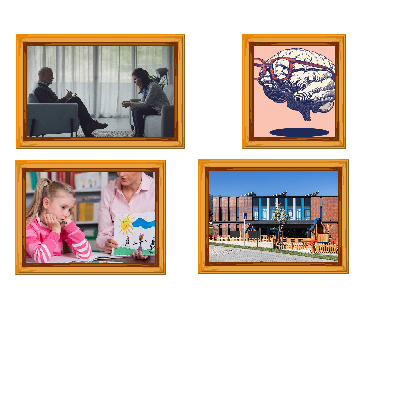
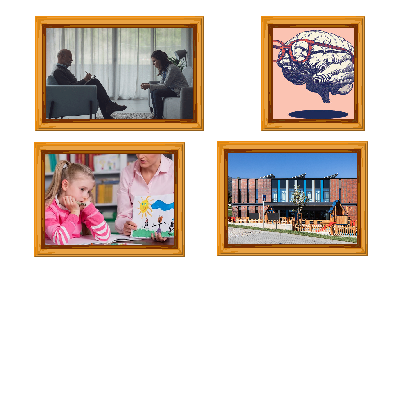
started implementing the movement of the phases animations, more difficult than I thought

diff --git a/src/Handlers/AnimationManager.java b/src/Handlers/AnimationManager.java
@@ -8,6 +8,8 @@ import main.GamePanel;
 
 import java.awt.*;
 import java.awt.image.BufferedImage;
+import java.util.ArrayDeque;
+import java.util.Deque;
 
 public class AnimationManager {
 
@@ -26,6 +28,9 @@ public class AnimationManager {
     BufferedImage[] tutorialSprites;
     Animation tutorial;
     Phase[] phases = Assets.phases;
+    Deque<Phase> future;
+    Deque<Phase> past;
+    Deque<Phase> drawn = new ArrayDeque<>();
 
     private boolean tutorialFading = false;
     public Player player;
@@ -38,6 +43,8 @@ public class AnimationManager {
         backgroundAnimation = Assets.backgroundAnimation;
         tutorial = Assets.tutorial;
         tutorialSprites = Assets.tutorialSprites;
+        future = Assets.future;
+        past = Assets.past;
     }
 
     public void updateAnimationsPositions(){
@@ -46,51 +53,38 @@ public class AnimationManager {
             if (player.x < Config.LEFT_BOUNDARY) {
                 if (player.movedLeft){
                     backgroundAnimation.x += (int) player.speed;
+
+                    if (!drawn.isEmpty()) {
+                        if (drawn.size() == 1) {
+                            drawn.peekFirst().picture.x += (int) player.speed;
+                            drawn.peekFirst().textBox.x += (int) player.speed;
+                        } else if (drawn.size() == 2) {
+                            drawn.peekFirst().picture.x += (int) player.speed;
+                            drawn.peekFirst().textBox.x += (int) player.speed;
+                            drawn.peekLast().picture.x += (int) player.speed;
+                            drawn.peekLast().textBox.x += (int) player.speed;
+                        }
+                    }
                 }
             } else if (player.x > Config.RIGHT_BOUNDARY) {
                 if (player.movedRight){
                     backgroundAnimation.x -= (int) player.speed;
+
+                    if (!drawn.isEmpty()) {
+                        if (drawn.size() == 1) {
+                            drawn.peekFirst().picture.x -= (int) player.speed;
+                            drawn.peekFirst().textBox.x -= (int) player.speed;
+                        } else if (drawn.size() == 2) {
+                            drawn.peekFirst().picture.x -= (int) player.speed;
+                            drawn.peekFirst().textBox.x -= (int) player.speed;
+                            drawn.peekLast().picture.x -= (int) player.speed;
+                            drawn.peekLast().textBox.x -= (int) player.speed;
+                        }
+                    }
                 }
             }
         }
-
-
     }
-
-//    public void loadAssets() {
-//
-//        tutorialSprites = new BufferedImage[2];
-//
-//        try {
-//            backgroundImage = ImageIO.read(Objects.requireNonNull(getClass().getResourceAsStream("/background/test-bg.png")));
-//
-//            background = new Animation(backgroundImage, Config.INIT_BG_X, Config.INIT_BG_Y, player.speed);
-//
-//            tutorialSprites[0] = ImageIO.read(Objects.requireNonNull(getClass().getResourceAsStream("/buttons/dir_buttons1.png")));
-//            tutorialSprites[1] = ImageIO.read(Objects.requireNonNull(getClass().getResourceAsStream("/buttons/dir_buttons2.png")));
-//            tutorial = new Animation(tutorialSprites, 100, 100, 0.13F); // these coordinates are always relative to the window
-//
-//            pictures = new FramedPicture[5];
-//            String VTUmessage = Config.TXTBOX_MESSAGES.get("VTU");
-//            //TODO
-//            BufferedImage pictureVTU = ImageIO.read(Objects.requireNonNull(getClass().getResourceAsStream("/buttons/dir_buttons1.png")));
-//            TextBox textBoxVTU = new TextBox(VTUmessage);
-//            FramedPicture VTU = new FramedPicture("VTU", textBoxVTU, pictureVTU, 0,0);
-//
-//
-//
-//
-//        }
-//        catch(IOException e){
-//            e.printStackTrace();
-//        }
-//    }
-
-    // for each visible animatable in the array, we need to
-    // activate/deactivate the animatable
-    // make it update its frames - internal to the animation?
-
-
 
 
     // run all animatable objects if they are active:
@@ -121,17 +115,12 @@ public class AnimationManager {
             System.out.println("BG middle X is " + backgroundAnimation.x );
             //System.out.println("Player X is " + player.x);
 
-            for(int i = 1; i < phases.length; i++){
-
-                //phases[i].picture.draw();
-                //phases[i].textBox.draw();
-            }
-
         } else {
             System.out.println("Warning: background is null, cannot draw.");
         }
 
         // draw the rest
+
         if (tutorial.active) {
             if ((player.x > Config.LEFT_BOUNDARY && player.x < Config.RIGHT_BOUNDARY) && !tutorialFading)
                 tutorial.draw(g2, tutorial.x, tutorial.y, tutorial.sprites[0].getWidth(), tutorial.sprites[0].getHeight());
@@ -143,7 +132,55 @@ public class AnimationManager {
             tutorial.updateFrame();
         }
 
+
+        Phase currentlyDrawn;
+        if(drawn.isEmpty()){                // add the first phase
+            currentlyDrawn = future.pollFirst();
+            if(currentlyDrawn != null) {
+                currentlyDrawn.picture.x = Config.INIT_MIDPIC_X;
+                currentlyDrawn.picture.y = Config.INIT_MIDPIC_Y;
+                currentlyDrawn.textBox.x = currentlyDrawn.picture.x + currentlyDrawn.picture.sprites[0].getWidth() * Config.SCALE + Config.PIC_TEXTBOX_OFFSET * Config.SCALE;
+                currentlyDrawn.textBox.y = currentlyDrawn.picture.y;
+            }
+            drawn.addFirst(currentlyDrawn);
+        }
+                                            //draw one phase
+        if(!drawn.isEmpty()) {
+
+            Phase phaseToDraw1 = drawn.peekFirst();
+            int offset = phaseToDraw1.picture.x + phaseToDraw1.picture.sprites[0].getWidth() * Config.SCALE + Config.PIC_TEXTBOX_OFFSET + phaseToDraw1.textBox.sprites[0].getWidth() * Config.SCALE + Config.PIC_AREA_OFFSET;
+
+            phaseToDraw1.picture.draw(g2, phaseToDraw1.picture.x, phaseToDraw1.picture.y, phaseToDraw1.picture.sprites[0].getWidth(), phaseToDraw1.picture.sprites[0].getHeight());
+            phaseToDraw1.picture.updateFrame(); // in case the animation is dynamic this will animate it
+            phaseToDraw1.textBox.draw(g2, phaseToDraw1.textBox.x + Config.PIC_TEXTBOX_OFFSET, phaseToDraw1.textBox.y, phaseToDraw1.textBox.sprites[0].getWidth(), phaseToDraw1.textBox.sprites[0].getHeight());
+
+            if ((phaseToDraw1.picture.x < 20) && (drawn.size() < 2) && (!future.isEmpty())) { // add second phase if there isn't any added and if future is not empty
+
+                Phase phaseToAdd = future.pollFirst();
+
+                phaseToAdd.picture.x = phaseToDraw1.picture.x + offset;
+                phaseToAdd.picture.y = Config.INIT_MIDPIC_Y;
+                phaseToAdd.textBox.x = phaseToAdd.picture.x + phaseToAdd.picture.sprites[0].getWidth() * Config.SCALE + Config.PIC_TEXTBOX_OFFSET * Config.SCALE;
+                phaseToAdd.textBox.y = phaseToAdd.picture.y;
+                drawn.addLast(phaseToAdd);
+            }
+
+            if (drawn.size() == 2){
+
+                Phase phaseToDraw2 = drawn.peekLast();
+                if (phaseToDraw2 != null) {
+                    phaseToDraw1 = drawn.peekFirst();
+
+                    phaseToDraw2.picture.draw(g2, phaseToDraw2.picture.x, phaseToDraw2.picture.y, phaseToDraw2.picture.sprites[0].getWidth(), phaseToDraw2.picture.sprites[0].getHeight());
+                    phaseToDraw2.picture.updateFrame(); // in case the animation is dynamic this will animate it
+                    phaseToDraw2.textBox.draw(g2, phaseToDraw2.textBox.x + Config.PIC_TEXTBOX_OFFSET, phaseToDraw2.textBox.y, phaseToDraw2.textBox.sprites[0].getWidth(), phaseToDraw2.textBox.sprites[0].getHeight());
+                }
+            }
+
+        }
     }
+
+//if future.isEmpty();
 
 
 }

diff --git a/src/Handlers/Assets.java b/src/Handlers/Assets.java
@@ -7,7 +7,10 @@ import main.Config;
 import javax.imageio.ImageIO;
 import java.awt.image.BufferedImage;
 import java.io.IOException;
+import java.util.ArrayDeque;
+import java.util.Deque;
 import java.util.Objects;
+import java.util.Stack;
 
 public class Assets{
 
@@ -16,6 +19,8 @@ public class Assets{
     public static BufferedImage[] tutorialSprites;
     public static Animation tutorial;
     public static Phase[] phases = new Phase[8];
+    public static Deque<Phase> future = new ArrayDeque<>();
+    public static Deque<Phase> past = new ArrayDeque<>();
 
     public static void load(float speed) {
 
@@ -28,7 +33,7 @@ public class Assets{
 
                 tutorialSprites[0] = ImageIO.read(Objects.requireNonNull(Assets.class.getResourceAsStream("/buttons/dir_buttons1.png")));
                 tutorialSprites[1] = ImageIO.read(Objects.requireNonNull(Assets.class.getResourceAsStream("/buttons/dir_buttons2.png")));
-                tutorial = new Animation(tutorialSprites, 100, 100, 0.13F); // these coordinates are always relative to the window
+                tutorial = new Animation(tutorialSprites, Config.tutorialX, Config.tutorialY, 0.13F); // these coordinates are always relative to the window
 
                 //phase 0 (a welcome message first?)
 
@@ -40,7 +45,7 @@ public class Assets{
 //                Phase ph = new Phase(textBox, 0, 0, picAnimation, 0,0 );
 //                phases[1] = ph;
 
-                for(int i = 1; i < phases.length; i++){
+                for(int i = 0; i < phases.length; i++){
                     Animation pictureAnimation;
                     if(i != 4 && i != 6 && i !=7) {
                         String picPath = "/phases/pics/pic" + i + "/pic" + i + ".png";
@@ -59,59 +64,11 @@ public class Assets{
                     String textBoxPath = "/phases/textboxes/box"+ i + "/textbox" + i + ".png";
                     BufferedImage textBoxSprite = ImageIO.read(Objects.requireNonNull(Assets.class.getResourceAsStream(textBoxPath)));
                     Animation textBox = new Animation(textBoxSprite);
-                    Phase ph = new Phase(textBox, 0, 0, pictureAnimation, 0,0 );
+                    Phase ph = new Phase(textBox, pictureAnimation);
                     phases[i] = ph;
-
+                    future.addLast(ph);
                 }
 
-
-//                //phase2
-//                BufferedImage picSprite = ImageIO.read(Objects.requireNonNull(Assets.class.getResourceAsStream("/buttons/dir_buttons1.png")));
-//                Animation picAnimation = new Animation(picSprite);
-//                BufferedImage textBoxSprite = ImageIO.read(Objects.requireNonNull(Assets.class.getResourceAsStream("/buttons/dir_buttons1.png")));
-//                Animation textBox = new Animation(textBoxSprite);
-//                Phase ph = new Phase(textBox, 0, 0, picAnimation, 0,0 );
-//                phases[2] = ph;
-//
-//                //phase3
-//                BufferedImage picSprite = ImageIO.read(Objects.requireNonNull(Assets.class.getResourceAsStream("/buttons/dir_buttons1.png")));
-//                Animation picAnimation = new Animation(picSprite);
-//                BufferedImage textBoxSprite = ImageIO.read(Objects.requireNonNull(Assets.class.getResourceAsStream("/buttons/dir_buttons1.png")));
-//                Animation textBox = new Animation(textBoxSprite);
-//                Phase ph = new Phase(textBox, 0, 0, picAnimation, 0,0 );
-//                phases[3] = ph;
-//
-//                //phase4
-//                BufferedImage picSprite = ImageIO.read(Objects.requireNonNull(Assets.class.getResourceAsStream("/buttons/dir_buttons1.png")));
-//                Animation picAnimation = new Animation(picSprite);
-//                BufferedImage textBoxSprite = ImageIO.read(Objects.requireNonNull(Assets.class.getResourceAsStream("/buttons/dir_buttons1.png")));
-//                Animation textBox = new Animation(textBoxSprite);
-//                Phase ph = new Phase(textBox, 0, 0, picAnimation, 0,0 );
-//                phases[4] = ph;
-//
-//                //phase5
-//                BufferedImage picSprite = ImageIO.read(Objects.requireNonNull(Assets.class.getResourceAsStream("/buttons/dir_buttons1.png")));
-//                Animation picAnimation = new Animation(picSprite);
-//                BufferedImage textBoxSprite = ImageIO.read(Objects.requireNonNull(Assets.class.getResourceAsStream("/buttons/dir_buttons1.png")));
-//                Animation textBox = new Animation(textBoxSprite);
-//                Phase ph = new Phase(textBox, 0, 0, picAnimation, 0,0 );
-//                phases[5] = ph;
-//
-//                //phase6
-//                BufferedImage picSprite = ImageIO.read(Objects.requireNonNull(Assets.class.getResourceAsStream("/buttons/dir_buttons1.png")));
-//                Animation picAnimation = new Animation(picSprite);
-//                BufferedImage textBoxSprite = ImageIO.read(Objects.requireNonNull(Assets.class.getResourceAsStream("/buttons/dir_buttons1.png")));
-//                Animation textBox = new Animation(textBoxSprite);
-//                Phase ph = new Phase(textBox, 0, 0, picAnimation, 0,0 );
-//                phases[6] = ph;
-//
-//                //phase7
-//                BufferedImage picSprite = ImageIO.read(Objects.requireNonNull(Assets.class.getResourceAsStream("/buttons/dir_buttons1.png")));
-//                Animation picAnimation = new Animation(picSprite);
-//                BufferedImage textBoxSprite = ImageIO.read(Objects.requireNonNull(Assets.class.getResourceAsStream("/buttons/dir_buttons1.png")));
-//                Animation textBox = new Animation(textBoxSprite);
-//                Phase ph = new Phase(textBox, 0, 0, picAnimation, 0,0 );
-//                phases[7] = ph;
 
         }
         catch(IOException e){

diff --git a/src/main/Config.java b/src/main/Config.java
@@ -11,7 +11,7 @@ import java.util.Objects;
 
 public final class Config {
 
-    public static final int SCALE = 2;
+    public static final int SCALE = 1;
 
     public static final int screenWidth = 1000;
     public static final int screenHeight = 500;
@@ -23,8 +23,20 @@ public final class Config {
     static public int BG_WIDTH = 1380;
     static public int BG_HEIGHT = 500;
 
-    static public int INIT_BG_X = -375;
-    public static int INIT_BG_Y = 0;
+    static public int PIC_TEXTBOX_OFFSET    = 20 * SCALE;
+    static public int PIC_AREA_OFFSET       = 70 * SCALE;
+
+    static public int INIT_LEFTPIC_X        = 500 * SCALE;
+    static public int INIT_LEFTPIC_Y        = 0 * SCALE;
+
+    static public int INIT_MIDPIC_X         = 500 * SCALE;
+    static public int INIT_MIDPIC_Y         = 0 * SCALE;
+
+    static public int INIT_RIGHTPIC_X       = 0 * SCALE;
+    static public int INIT_RIGHTPIC_Y       = 0 * SCALE;
+
+    static public int INIT_BG_X             = -187 * SCALE;
+    public static int INIT_BG_Y             = 0 * SCALE;
 
     public static BufferedImage plImage;
 
@@ -49,6 +61,5 @@ public final class Config {
     static public int RIGHT_BOUNDARY = 100 * SCALE;
 
 
-    public Config() throws IOException {
-    }
+
 }

diff --git a/src/animations/Player.java b/src/animations/Player.java
@@ -83,19 +83,16 @@ public class Player extends Entity{
         if(state.name.equals("WALKING")){
             movedLeft = false;
             movedRight = false;
-            //if((x < Config.RIGHT_BOUNDARY+1 && direction == Direction.RIGHT) || (x > Config.LEFT_BOUNDARY-1 && direction == Direction.LEFT)) {
                 if (direction == Direction.RIGHT) {
-
                     movedRight = true;
-                    if (x < Config.RIGHT_BOUNDARY+1 && direction == Direction.RIGHT) {
+                    if (x < Config.RIGHT_BOUNDARY+speed && direction == Direction.RIGHT) {
                         x += (int) speed;
                     }
-                } else {
+                } else if (direction == Direction.LEFT) {
                     movedLeft = true;
-                    if (x > Config.LEFT_BOUNDARY-1 && direction == Direction.LEFT) {
+                    if (x > Config.LEFT_BOUNDARY-speed && direction == Direction.LEFT) {
                         x -= (int) speed;
                     }
-
                 }
             }
 

diff --git a/src/animations/Phase.java b/src/animations/Phase.java
@@ -5,18 +5,10 @@ import java.awt.*;
 public class Phase {
 
     public Animation picture;
-    int pictureX;
-    int pictureY;
     public Animation textBox;
-    int textBoxX;
-    int textBoxY;
 
-    public Phase(Animation txt,int textBoxX, int textBoxY, Animation pic,  int picX, int picY){
+    public Phase(Animation txt, Animation pic){
         this.picture = pic;
-        this.pictureX = picX;
-        this.pictureY = picY;
         this.textBox = txt;
-        this.textBoxX = textBoxX;
-        this.textBoxY = textBoxY;
     }
 }

diff --git a/src/main/Main.java b/src/main/Main.java
@@ -9,7 +9,7 @@ public class Main {
 
         JFrame window = new JFrame();
         window.setBounds(0, 0, 800, 600);
-        window.setSize(1000, 1000);
+        window.setSize(800, 1000);
         window.setDefaultCloseOperation(JFrame.EXIT_ON_CLOSE);
         window.setResizable(false); 
         window.setTitle("Game");
